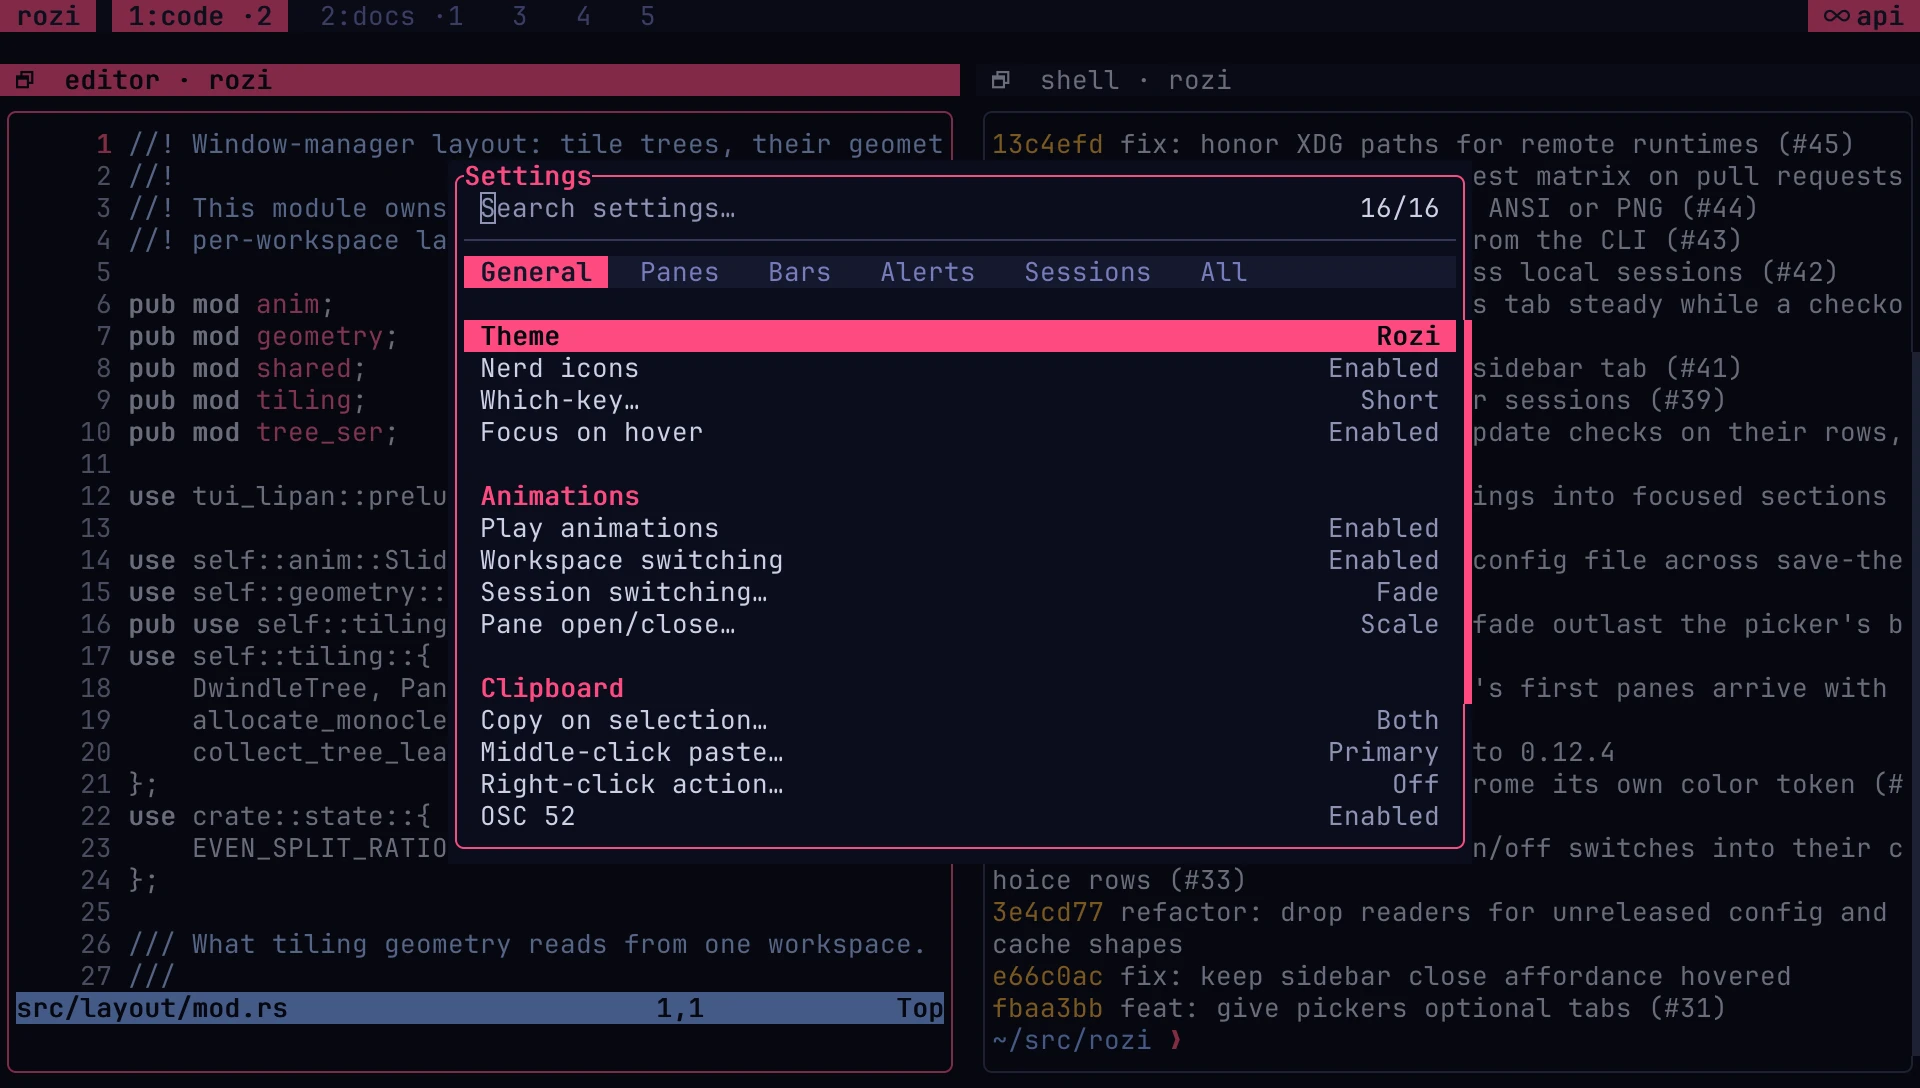
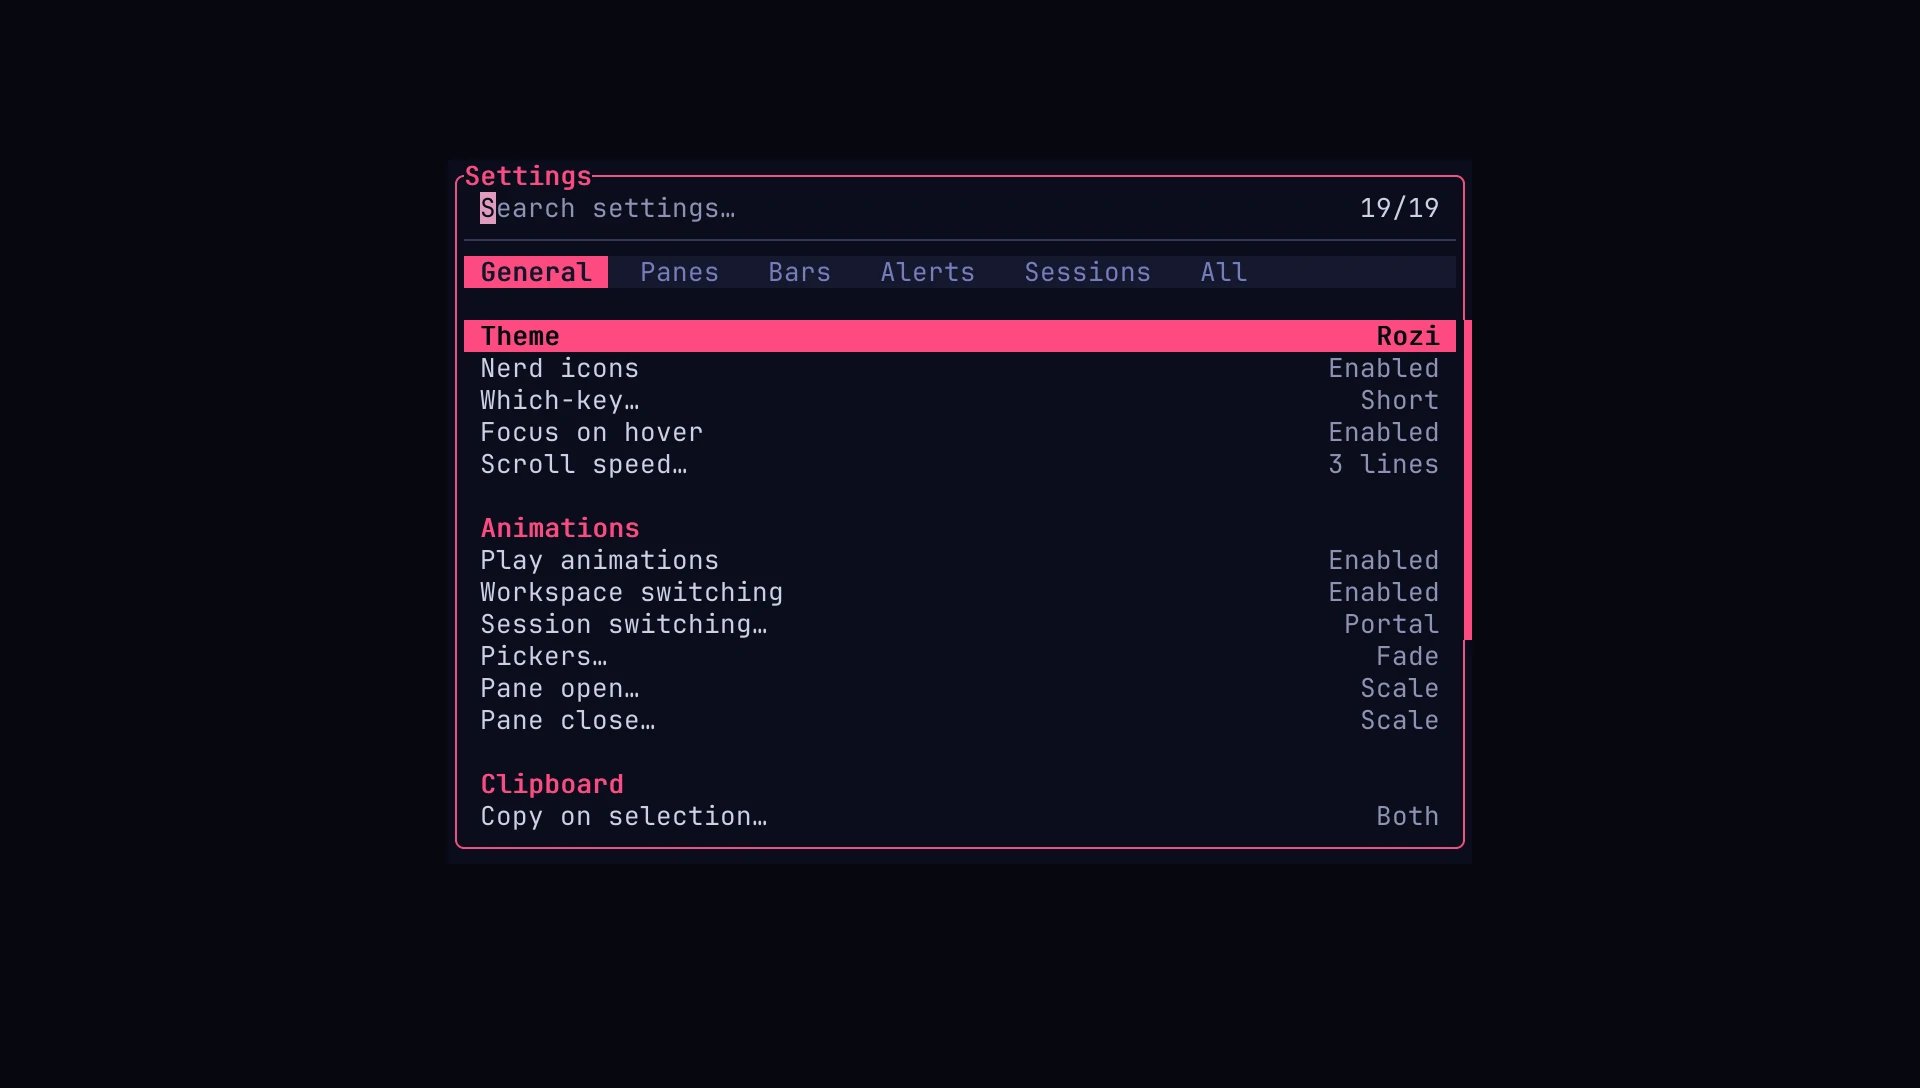
feat: make pane wheel scroll speed configurable
## Summary

You can now set how far the mouse wheel scrolls a pane's history. Before this, a notch always moved one line, and no config key could change it. The new `scroll_lines` key in `[pane]` takes `1` to `50` (default `3`). Settings → General gains a **Scroll speed** row offering 1, 2, 3, 5, or 10 lines. Picking a value applies it at once and writes `scroll_lines` to the config file. Typing any other in-range value in the file still works: the row shows the real number and highlights the nearest preset. Out-of-range values are clamped, with a config warning.

The default moves from one line to three per notch, which matches common terminal emulators. Programs that track the mouse, such as editors, still get the raw wheel events and use their own step.

The docs cover the change: `docs/configuration.md` has the key, `docs/terminal.md` explains wheel speed, `docs/customize.md` lists the new row, `examples/config.toml` has the commented default, and the `settings` capture is regenerated.

**Blocked on tui-lipan:** this uses `Terminal::scroll_wheel_multiplier` from tui-lipan/tui-lipan#317, which isn't released yet. CI will fail to compile until that release ships and this PR raises its `tui-lipan` requirement to that version.

diff --git a/src/state/settings.rs b/src/state/settings.rs
@@ -106,6 +106,7 @@ pub enum SettingsAction {
     CycleRightClickClipboard,
     ToggleOsc52,
     ToggleFocusOnHover,
+    CycleScrollLines,
     ToggleBackgroundFollowsTerminal,
     ChooseTitlebar,
     CycleTitleStyle,
@@ -173,6 +174,7 @@ impl SettingsAction {
             Self::ToggleNerdIcons,
             Self::CycleWhichKey,
             Self::ToggleFocusOnHover,
+            Self::CycleScrollLines,
             // Animations
             Self::ToggleAnimations,
             Self::ToggleWorkspaceAnimation,
@@ -263,6 +265,7 @@ impl SettingsAction {
                 config.input.which_key,
                 WhichKey::label,
             )),
+            Self::CycleScrollLines => Some(scroll_lines_choice_ring(pane.scroll_lines)),
             Self::CycleCopyOnSelect => Some(choice_ring(
                 "Copy on selection",
                 CopyOnSelect::all(),
@@ -457,6 +460,9 @@ impl SettingsAction {
         match self {
             Self::CycleWhichKey => {
                 assign_choice(WhichKey::all(), index, &mut config.input.which_key)
+            }
+            Self::CycleScrollLines => {
+                assign_choice(&SCROLL_LINE_CHOICES, index, &mut config.pane.scroll_lines)
             }
             Self::CycleCopyOnSelect => assign_choice(
                 CopyOnSelect::all(),
@@ -665,6 +671,32 @@ fn assign_choice<T: Copy>(all: &[T], index: usize, slot: &mut T) -> bool {
     };
     *slot = value;
     true
+}
+
+/// Wheel steps the Settings picker offers. `pane.scroll_lines` accepts any value in range; one off
+/// this list highlights its nearest step.
+const SCROLL_LINE_CHOICES: [u16; 5] = [1, 2, 3, 5, 10];
+
+pub fn scroll_lines_label(lines: u16) -> String {
+    if lines == 1 {
+        "1 line".to_string()
+    } else {
+        format!("{lines} lines")
+    }
+}
+
+fn scroll_lines_choice_ring(current: u16) -> SettingsChoiceRing {
+    let index = SCROLL_LINE_CHOICES
+        .iter()
+        .enumerate()
+        .min_by_key(|(_, lines)| lines.abs_diff(current))
+        .map(|(index, _)| index)
+        .unwrap_or_default();
+    SettingsChoiceRing {
+        title: "Scroll speed",
+        options: vec!["1 line", "2 lines", "3 lines", "5 lines", "10 lines"],
+        index,
+    }
 }
 
 fn titlebar_choice_ring(pane: &crate::config::PaneConfig) -> SettingsChoiceRing {
@@ -918,6 +950,24 @@ impl PanePaddingEditorState {
 #[cfg(test)]
 mod tests {
     use super::*;
+
+    #[test]
+    fn scroll_speed_ring_labels_its_steps_and_highlights_the_nearest_one() {
+        let ring = scroll_lines_choice_ring(3);
+        let labels: Vec<String> = SCROLL_LINE_CHOICES
+            .into_iter()
+            .map(scroll_lines_label)
+            .collect();
+        assert_eq!(ring.options, labels);
+        assert_eq!(ring.options[ring.index], "3 lines");
+        assert_eq!(ring.options[scroll_lines_choice_ring(4).index], "3 lines");
+        assert_eq!(ring.options[scroll_lines_choice_ring(40).index], "10 lines");
+
+        let mut config = Config::default();
+        assert!(SettingsAction::CycleScrollLines.apply_choice(&mut config, 4));
+        assert_eq!(config.pane.scroll_lines, 10);
+        assert!(SettingsAction::CycleScrollLines.shows_choice_ellipsis(&config));
+    }
 
     #[test]
     fn symmetric_padding_prefills_and_asymmetric_padding_requires_explicit_normalization() {

diff --git a/src/config/file.rs b/src/config/file.rs
@@ -473,6 +473,7 @@ pub(super) struct PaneFileConfig {
     highlight_focused_titlebar: Option<bool>,
     focus_on_hover: Option<bool>,
     focus_on_hover_pause_modifier: Option<String>,
+    scroll_lines: Option<u16>,
     show_workbar: Option<bool>,
     workbar_gap: Option<bool>,
     workbar_background: Option<bool>,
@@ -1018,6 +1019,15 @@ fn load_config_from_text_with_extensions(
                 "Ignored unknown pane.focus_on_hover_pause_modifier `{modifier}` (expected `none`, `shift`, `ctrl`, or `alt`)"
             )),
         }
+    }
+    if let Some(lines) = parsed.pane.scroll_lines {
+        let clamped = lines.clamp(PANE_MIN_SCROLL_LINES, PANE_MAX_SCROLL_LINES);
+        if clamped != lines {
+            warnings.push(format!(
+                "pane.scroll_lines {lines} out of range; clamped to {clamped}"
+            ));
+        }
+        config.pane.scroll_lines = clamped;
     }
     if let Some(show_workbar) = parsed.pane.show_workbar {
         config.pane.show_workbar = show_workbar;
@@ -1957,6 +1967,7 @@ mod file_tests {
             highlight_focused_titlebar = false
             focus_on_hover = false
             focus_on_hover_pause_modifier = "ctrl"
+            scroll_lines = 5
             show_workbar = false
             workbar_gap = false
             workbar_background = false
@@ -1983,6 +1994,7 @@ mod file_tests {
             parsed.pane.focus_on_hover_pause_modifier.as_deref(),
             Some("ctrl")
         );
+        assert_eq!(parsed.pane.scroll_lines, Some(5));
         assert_eq!(parsed.pane.show_workbar, Some(false));
         assert_eq!(parsed.pane.workbar_gap, Some(false));
         assert_eq!(parsed.pane.workbar_background, Some(false));
@@ -2028,6 +2040,31 @@ mod file_tests {
                 .iter()
                 .any(|warning| warning.contains("super"))
         );
+    }
+
+    #[test]
+    fn pane_scroll_lines_defaults_to_three_and_clamps_out_of_range_values() {
+        assert_eq!(Config::default().pane.scroll_lines, 3);
+
+        let loaded = load_config_from_text("[pane]\nscroll_lines = 7", Path::new("config.toml"));
+        assert_eq!(loaded.config.pane.scroll_lines, 7);
+        assert!(loaded.warnings.is_empty(), "{:?}", loaded.warnings);
+
+        for (lines, expected) in [(0, PANE_MIN_SCROLL_LINES), (500, PANE_MAX_SCROLL_LINES)] {
+            let loaded = load_config_from_text(
+                &format!("[pane]\nscroll_lines = {lines}"),
+                Path::new("config.toml"),
+            );
+            assert_eq!(loaded.config.pane.scroll_lines, expected);
+            assert!(
+                loaded
+                    .warnings
+                    .iter()
+                    .any(|warning| warning.contains("scroll_lines")),
+                "{:?}",
+                loaded.warnings
+            );
+        }
     }
 
     #[test]

diff --git a/src/update/overlays.rs b/src/update/overlays.rs
@@ -371,6 +371,7 @@ fn settings_apply(ctx: &mut Context<AppRoot>, action: crate::state::SettingsActi
         | CycleSessionAnimation
         | CyclePickerAnimation
         | CycleWhichKey
+        | CycleScrollLines
         | CycleCopyOnSelect
         | CycleMiddleClickPaste
         | CycleRightClickClipboard
@@ -725,6 +726,14 @@ fn persist_applied_settings_choice(
                 "which_key",
                 ctx.state.config.input.which_key.id(),
             ) {
+                preference_error(ctx, err);
+            }
+        }
+        CycleScrollLines => {
+            let lines = ctx.state.config.pane.scroll_lines.to_string();
+            if let Err(err) =
+                crate::config::persist_section_values("pane", &[("scroll_lines", &lines)])
+            {
                 preference_error(ctx, err);
             }
         }
@@ -1695,6 +1704,24 @@ mod tests {
                 backend.state().config.session.resurrect_foreground,
                 crate::config::ForegroundRestore::Auto
             );
+        });
+    }
+
+    #[test]
+    fn settings_scroll_speed_applies_and_saves_the_picked_step() {
+        on_large_stack(|| {
+            let mut backend = TestBackend::new(AppRoot::default());
+            backend.state_mut().show_settings = true;
+            backend
+                .dispatch(Msg::SettingsActivate(
+                    crate::state::SettingsAction::CycleScrollLines,
+                ))
+                .unwrap();
+            backend.dispatch(Msg::SettingsChoicePick(4)).unwrap();
+            assert_eq!(backend.state().config.pane.scroll_lines, 10);
+
+            let saved = std::fs::read_to_string(crate::config::config_path()).unwrap();
+            assert!(saved.contains("scroll_lines = 10"), "{saved}");
         });
     }
 

diff --git a/src/config/schema.rs b/src/config/schema.rs
@@ -586,6 +586,8 @@ pub struct PaneConfig {
     pub focus_on_hover: bool,
     /// Modifier that temporarily suspends hover focus while held.
     pub focus_on_hover_pause_modifier: HoverFocusPauseModifier,
+    /// Scrollback lines one mouse wheel notch moves in a pane.
+    pub scroll_lines: u16,
     /// Whether the workbar (workspace tabs, mode chips, etc.) is shown.
     pub show_workbar: bool,
     /// Whether there is a 1-line gap between the workbar and the panes area.
@@ -680,6 +682,7 @@ impl Default for PaneConfig {
             highlight_focused_titlebar: true,
             focus_on_hover: true,
             focus_on_hover_pause_modifier: HoverFocusPauseModifier::default(),
+            scroll_lines: PANE_DEFAULT_SCROLL_LINES,
             show_workbar: true,
             workbar_gap: true,
             workbar_background: true,
@@ -1562,6 +1565,10 @@ impl UserCommandAction {
         }
     }
 }
+
+pub const PANE_DEFAULT_SCROLL_LINES: u16 = 3;
+pub const PANE_MIN_SCROLL_LINES: u16 = 1;
+pub const PANE_MAX_SCROLL_LINES: u16 = 50;
 
 pub const SIDEBAR_MIN_WIDTH: u16 = 16;
 pub const SIDEBAR_MAX_WIDTH: u16 = 80;

diff --git a/src/view/overlays/commands.rs b/src/view/overlays/commands.rs
@@ -214,6 +214,7 @@ pub(super) fn settings_palette_aliases(group: &str, action: SettingsAction) -> V
         ToggleNerdIcons => alias_list(&["nerd font", "patched font", "glyphs"]),
         CycleWhichKey => alias_list(&["prefix hints", "key hints", "chord panel"]),
         ToggleFocusOnHover => alias_list(&["mouse"]),
+        CycleScrollLines => alias_list(&["mouse", "wheel", "scrollback", "scroll lines"]),
         ToggleAnimations => alias_list(&["motion", "transitions", "effects"]),
         ToggleWorkspaceAnimation => alias_list(&["slide"]),
         CyclePickerAnimation => alias_list(&["palette", "modal", "fade", "portal", "scan"]),

diff --git a/src/view/overlays/settings.rs b/src/view/overlays/settings.rs
@@ -35,6 +35,11 @@ fn settings_groups(ctx: &Context<AppRoot>) -> Vec<SettingGroup> {
                     enabled_status(pane.focus_on_hover),
                     ToggleFocusOnHover,
                 ),
+                (
+                    "Scroll speed",
+                    crate::state::scroll_lines_label(pane.scroll_lines),
+                    CycleScrollLines,
+                ),
             ],
         ),
         // Every motion control in one place, the master switch first: the rows below it grey out

diff --git a/tests/suites/ui_chrome/settings_rows_smoke.rs b/tests/suites/ui_chrome/settings_rows_smoke.rs
@@ -1132,7 +1132,7 @@ fn settings_categories_cover_all_controls_and_keep_motion_together() {
     on_large_stack(|| {
         let mut backend = settings_backend(100, 50);
         for (tab, count, expected) in [
-            (SettingsTab::General, 18, "Pane close"),
+            (SettingsTab::General, 19, "Pane close"),
             (SettingsTab::Panes, 12, "Scratchpad"),
             (SettingsTab::Bars, 12, "Position"),
             (SettingsTab::Alerts, 20, "Bell urgency"),

diff --git a/src/view/pane.rs b/src/view/pane.rs
@@ -1249,6 +1249,7 @@ pub(crate) fn pane_element(
         .scrollbar(!pane.closing)
         .h_scrollbar(!pane.closing)
         .scroll_wheel(terminal_ready && !hinting)
+        .scroll_wheel_multiplier(ctx.state.config.pane.scroll_lines)
         .on_resize(ctx.link().callback(move |viewport: TerminalViewport| {
             Msg::PaneResize(id, viewport.cols, viewport.rows)
         }));

diff --git a/src/config/unknown_keys.rs b/src/config/unknown_keys.rs
@@ -109,6 +109,7 @@ const PANE_KEYS: &[&str] = &[
     "highlight_focused_titlebar",
     "focus_on_hover",
     "focus_on_hover_pause_modifier",
+    "scroll_lines",
     "show_workbar",
     "workbar_gap",
     "workbar_background",

diff --git a/docs/configuration.md b/docs/configuration.md
@@ -208,6 +208,7 @@ See [Layouts and panes](layouts-and-panes.md).
 | `resize_debounce_ms` | integer | `16` | Minimum delay between batches of terminal resize reports. `0` forwards each report. |
 | `focus_on_hover` | bool | `true` | Focuses a pane when the pointer enters it. In a Scrollable layout, a clipped column scrolls into view on the next key or click, not on hover. |
 | `focus_on_hover_pause_modifier` | string | `"shift"` | Holding this modifier pauses hover focus; click focus still works. `"shift"`, `"ctrl"`, `"alt"`, or `"none"` for no pause. Other modifiers may be held too. |
+| `scroll_lines` | integer | `3` | Scrollback lines one mouse wheel notch moves, `1` to `50`. A program that tracks the mouse, such as an editor, receives the wheel and applies its own step. |
 | `hold_on_exit` | bool | `false` | Keeps shell panes open after they exit on their own. Command panes use their `keep_open` value. |
 | `highlight_focused_background` | bool | `false` | Uses the panel background for the focused pane. |
 | `highlight_focused_border` | bool | `true` | Uses the active border color for the focused pane. |

diff --git a/docs/terminal.md b/docs/terminal.md
@@ -62,6 +62,11 @@ pressed the prefix. Mouse-aware editors and other terminal apps keep working nor
 When you drag after pressing the prefix, the which-key strip hides during the drag. The `PREFIX`
 badge stays until you release the button, which also ends the prefix.
 
+Each wheel notch scrolls history three lines. Change it with **Scroll speed** in
+[Settings](customize.md#use-the-settings-picker) or `scroll_lines` in
+[`[pane]`](configuration.md#pane). A program that tracks the mouse, such as an editor, receives the
+wheel itself and scrolls by its own step.
+
 rozi limits pointer-motion events sent to a mouse-tracking program to the configured frame rate, so
 the program does not fall behind. Presses, releases, and wheel events are always sent.
 

diff --git a/docs/customize.md b/docs/customize.md
@@ -31,7 +31,7 @@ Settings is divided into categories:
 
 | Category | Contains |
 | --- | --- |
-| General | Theme, nerd icons, which-key, focus on hover, animations, clipboard, and pickers |
+| General | Theme, nerd icons, which-key, focus on hover, scroll speed, animations, clipboard, and pickers |
 | Panes | Background, borders, and titlebar |
 | Bars | Workbar and sidebar |
 | Alerts | Pane border and workspace tab effects, workspace markers, desktop notifications, and sounds |
